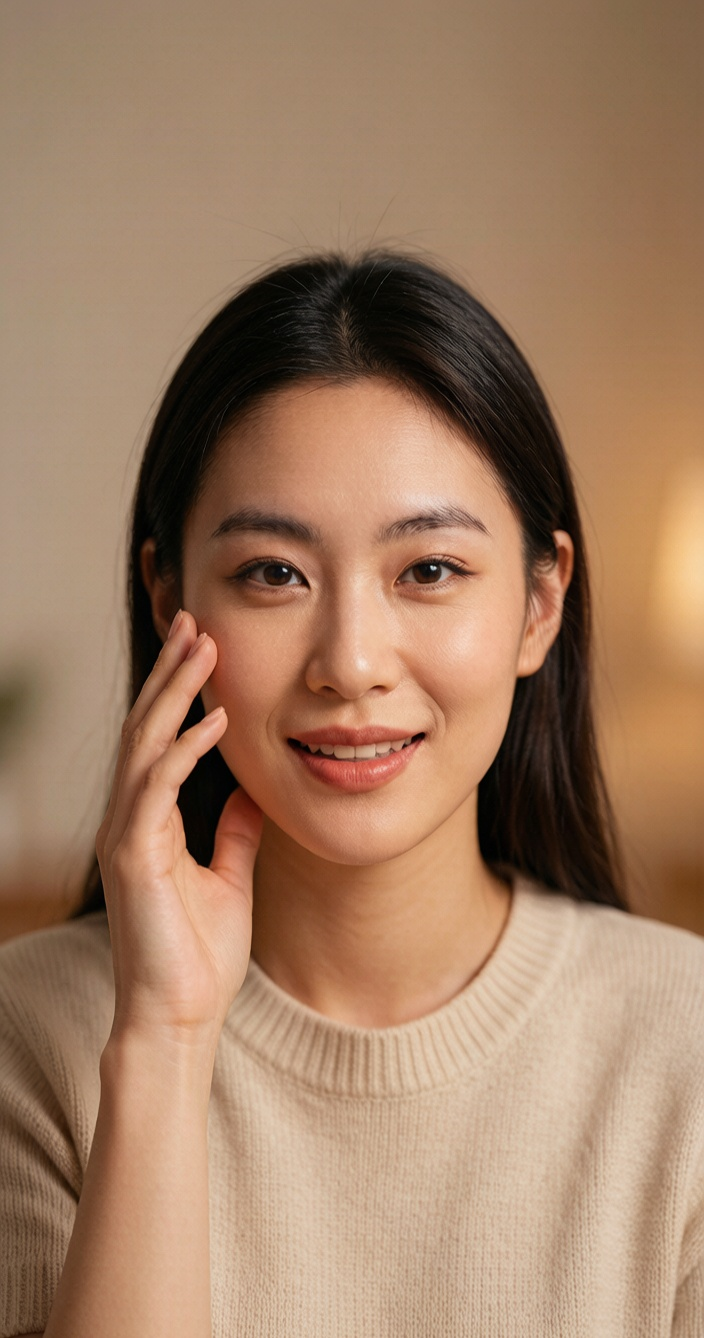
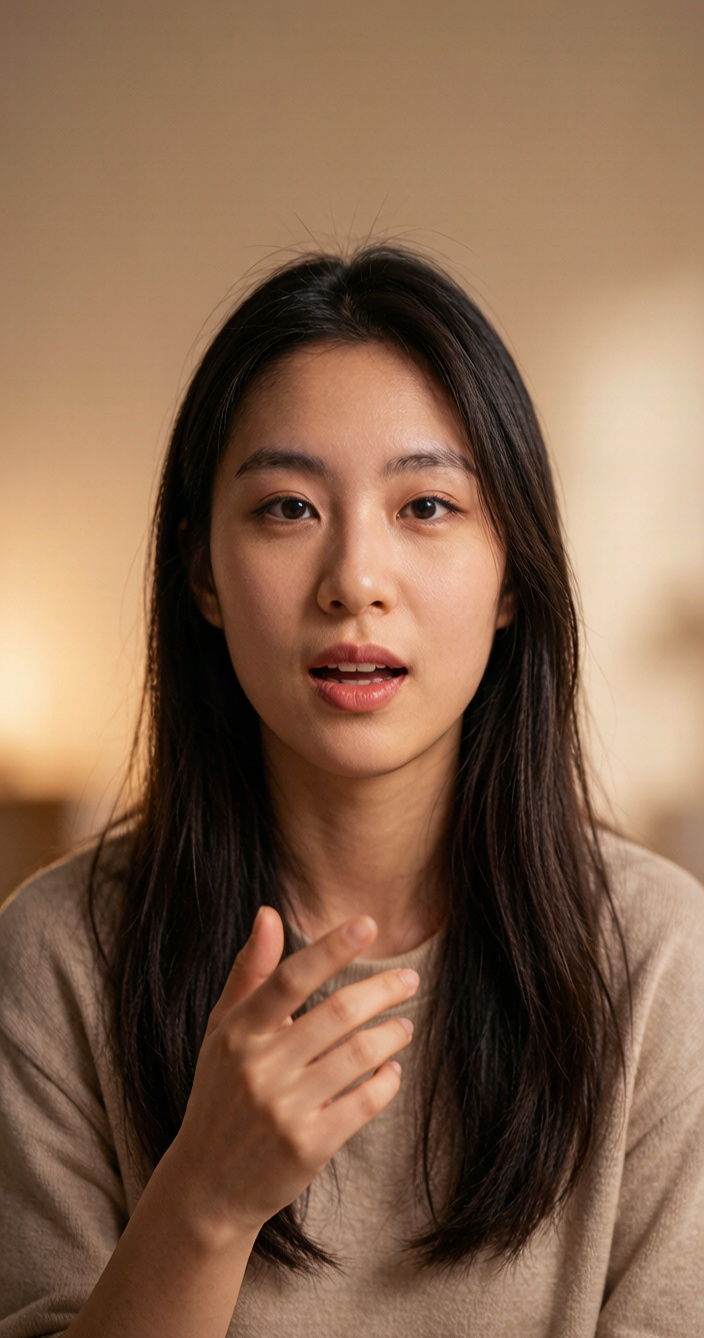
fix: 口播博主图换成正在说话的版本(张嘴+手势+直视镜头); CSS缓存戳?v=7

diff --git a/index.html b/index.html
@@ -4,7 +4,7 @@
 <meta charset="utf-8"/>
 <meta content="width=device-width, initial-scale=1.0" name="viewport"/>
 <title>InfluenceClaw 影响力智能体 · 上海活力组织研究院</title>
-<link href="styles.css?v=6" rel="stylesheet"/>
+<link href="styles.css?v=7" rel="stylesheet"/>
 <link rel="preload" as="image" href="images/hero-bg-grid.webp" type="image/webp"/>
 <link href="https://fonts.googleapis.com" rel="preconnect"/>
 <link crossorigin="" href="https://fonts.gstatic.com" rel="preconnect"/>
